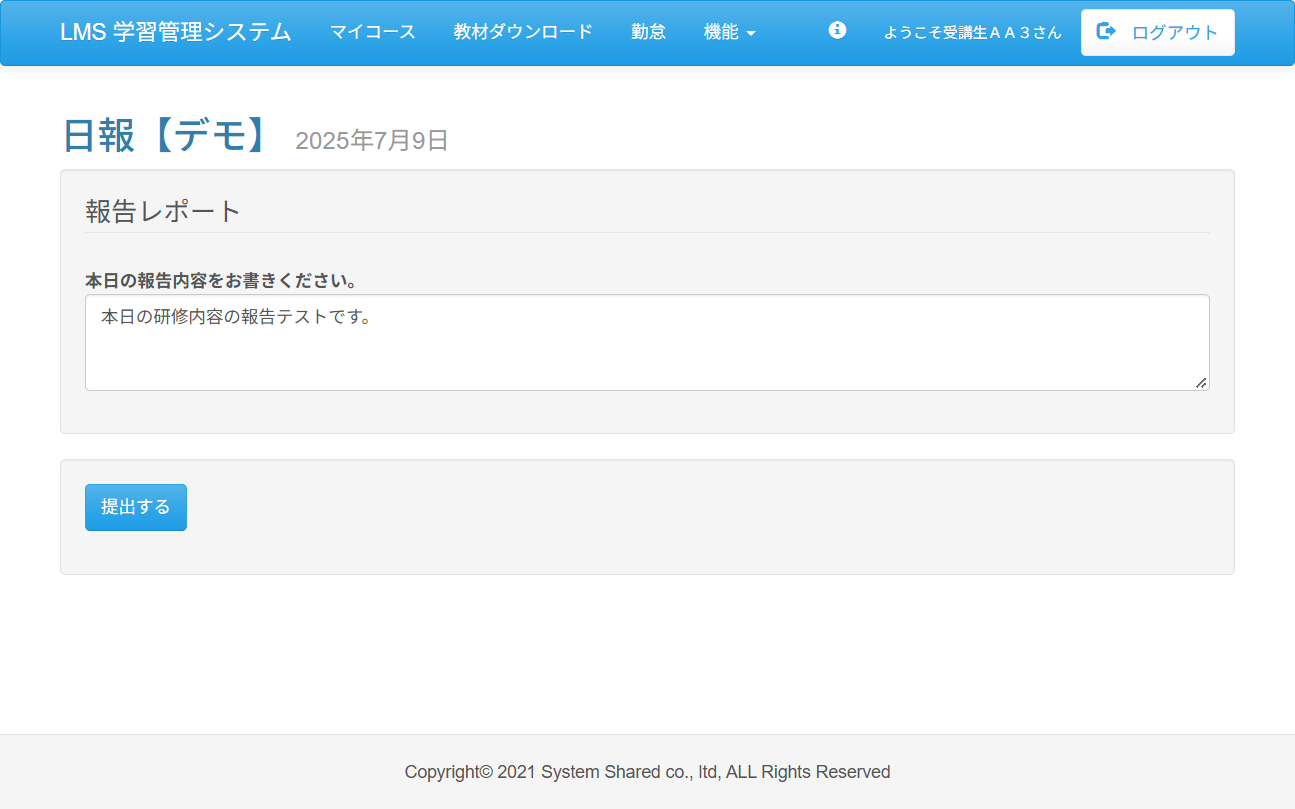
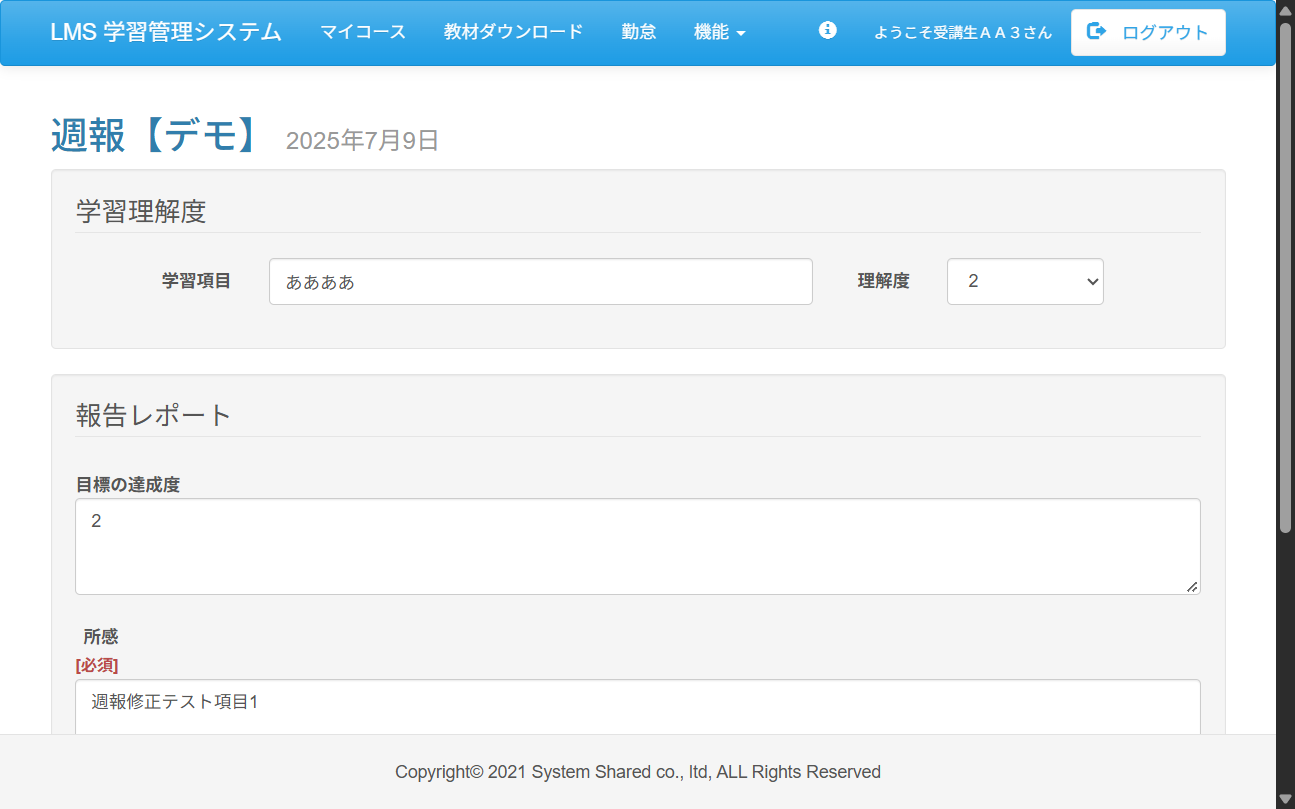
fix:Case08 床嶋 雅也 テストコード修正

diff --git a/test_code_creation_name/src/test/java/jp/co/sss/lms/ct/f03_report/Case08.java b/test_code_creation_name/src/test/java/jp/co/sss/lms/ct/f03_report/Case08.java
@@ -23,6 +23,7 @@ import jp.co.sss.lms.ct.util.WebDriverUtils;
 /**
  * 結合テスト レポート機能
  * ケース08
+ * 
  * @author holy
  */
 @TestMethodOrder(OrderAnnotation.class)
@@ -73,7 +74,6 @@ public class Case08 {
 		WebDriverWait wait = new WebDriverWait(driver, Duration.ofSeconds(10));
 		wait.until(ExpectedConditions.titleIs("コース詳細 | LMS"));
 
-		assertEquals("コース詳細 | LMS", driver.getTitle());
 		assertTrue(driver.findElement(By.cssSelector("input[value='詳細']")).isDisplayed());
 
 		getEvidence(new Object() {
@@ -84,12 +84,12 @@ public class Case08 {
 	@Order(3)
 	@DisplayName("テスト03 提出済の研修日（週報）の「詳細」ボタンを押下しセクション詳細画面に遷移")
 	void test03() {
-		// 「2025年7月9日」が含まれる行の「詳細」ボタンをピンポイントで取得
+		// 「7月9日」または「試験有（週報のある研修日）」が含まれる行の「詳細」ボタンを確実に指定
 		By weeklyDetailBtn = By.xpath("//tr[td[contains(text(),'7月9日')]]//input[@value='詳細']");
 
-		// 万が一「7月9日」の記述で見つからない場合の予備（2つ目の「提出済み」ボタンを取得）
+		// 万が一「7月9日」の記述がない場合は「週報」または「試験有」の行を取得
 		if (driver.findElements(weeklyDetailBtn).isEmpty()) {
-			weeklyDetailBtn = By.xpath("(//tr[td/span[text()='提出済み']]//input[@value='詳細'])[2]");
+			weeklyDetailBtn = By.xpath("//tr[contains(.,'試験有') or contains(.,'週報')]//input[@value='詳細']");
 		}
 
 		WebElement detailBtnElement = driver.findElement(weeklyDetailBtn);
@@ -114,11 +114,16 @@ public class Case08 {
 	@Order(4)
 	@DisplayName("テスト04 「提出済み週報【デモ】を確認する」ボタンを押下しレポート登録画面に遷移")
 	void test04() {
-		// ボタン要素の取得
-		By checkBtn = By.cssSelector("input[value*='を確認する']");
+		// 「週報」と「確認する」が含まれるボタンをピンポイントで指定（日報の誤クリックを防止）
+		By checkBtn = By.xpath("//input[contains(@value,'週報') and contains(@value,'確認する')]");
+
+		// もし値で取れない場合は「確認する」ボタンの末尾（週報側）を取得
+		if (driver.findElements(checkBtn).isEmpty()) {
+			checkBtn = By.xpath("(//input[contains(@value,'確認する')])[last()]");
+		}
+
 		WebElement checkBtnElement = driver.findElement(checkBtn);
 
-		// ボタンが画面の中央に来るようにスクロール（要素被りを防止）
 		((org.openqa.selenium.JavascriptExecutor) driver)
 				.executeScript("arguments[0].scrollIntoView({block: 'center'});", checkBtnElement);
 
@@ -141,23 +146,22 @@ public class Case08 {
 		// 1つ目の入力欄（日報・週報共通）
 		WebElement inputText0 = driver.findElement(By.id("content_0"));
 		inputText0.clear();
-		inputText0.sendKeys("研修内容の報告修正テストです。");
+		inputText0.sendKeys("2");
 
 		// 2つ目の入力欄が存在する場合のみ入力（週報の場合）
 		if (!driver.findElements(By.id("content_1")).isEmpty()) {
 			WebElement inputText1 = driver.findElement(By.id("content_1"));
 			inputText1.clear();
-			inputText1.sendKeys("テスト");
+			inputText1.sendKeys("週報修正テスト項目1");
 		}
 
 		// 3つ目の入力欄が存在する場合のみ入力（週報の場合）
 		if (!driver.findElements(By.id("content_2")).isEmpty()) {
 			WebElement inputText2 = driver.findElement(By.id("content_2"));
 			inputText2.clear();
-			inputText2.sendKeys("テスト");
+			inputText2.sendKeys("週報修正テスト項目2");
 		}
 
-		// 「提出する」ボタンを取得してスクロール表示後クリック
 		WebElement submitBtn = driver.findElement(By.cssSelector("button[type='submit']"));
 		((org.openqa.selenium.JavascriptExecutor) driver)
 				.executeScript("arguments[0].scrollIntoView({block: 'center'});", submitBtn);
@@ -193,9 +197,20 @@ public class Case08 {
 	@Order(7)
 	@DisplayName("テスト07 該当レポートの「詳細」ボタンを押下しレポート詳細画面で修正内容が反映される")
 	void test07() {
-		scrollTo("200");
+		// マイページのレポート一覧から「週報」の行にある「詳細」ボタンを特定
+		By weeklyDetailInMyPage = By.xpath("//tr[contains(.,'週報')]//input[@value='詳細']");
 
-		driver.findElement(By.cssSelector("input[value='詳細']")).click();
+		if (driver.findElements(weeklyDetailInMyPage).isEmpty()) {
+			weeklyDetailInMyPage = By.xpath("(//input[@value='詳細'])[2]");
+		}
+
+		WebElement detailBtnElement = driver.findElement(weeklyDetailInMyPage);
+
+		// ボタンが画面の中央に来るようにスクロール（被り防止）
+		((org.openqa.selenium.JavascriptExecutor) driver)
+				.executeScript("arguments[0].scrollIntoView({block: 'center'});", detailBtnElement);
+
+		detailBtnElement.click();
 
 		WebDriverWait wait = new WebDriverWait(driver, Duration.ofSeconds(10));
 		wait.until(ExpectedConditions.titleIs("レポート詳細 | LMS"));
